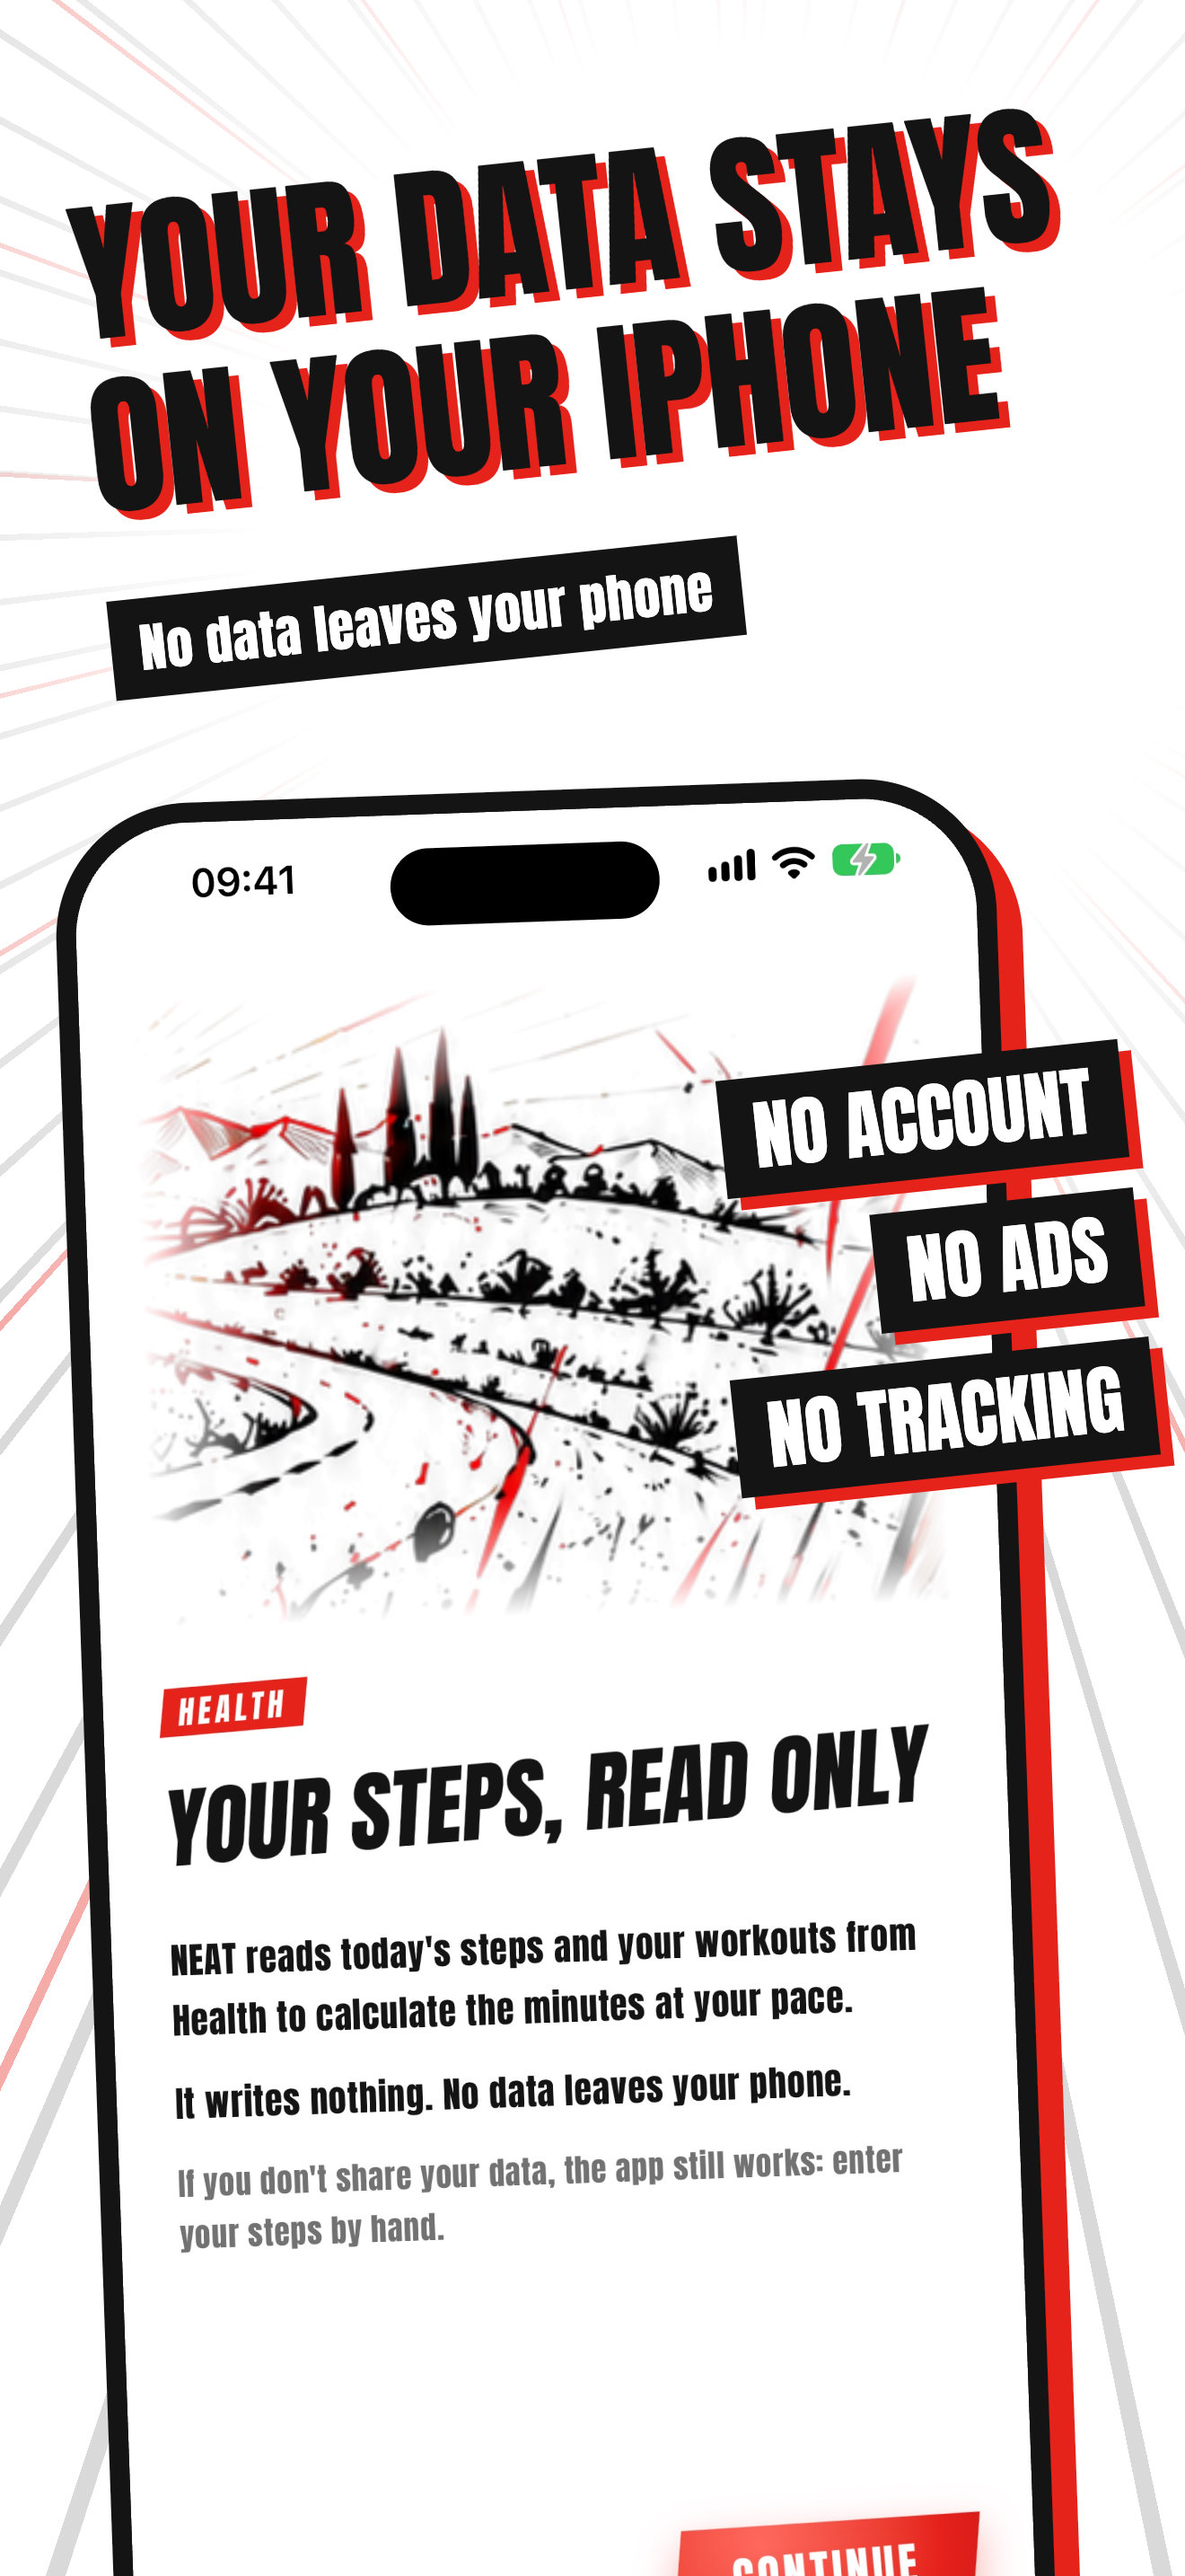
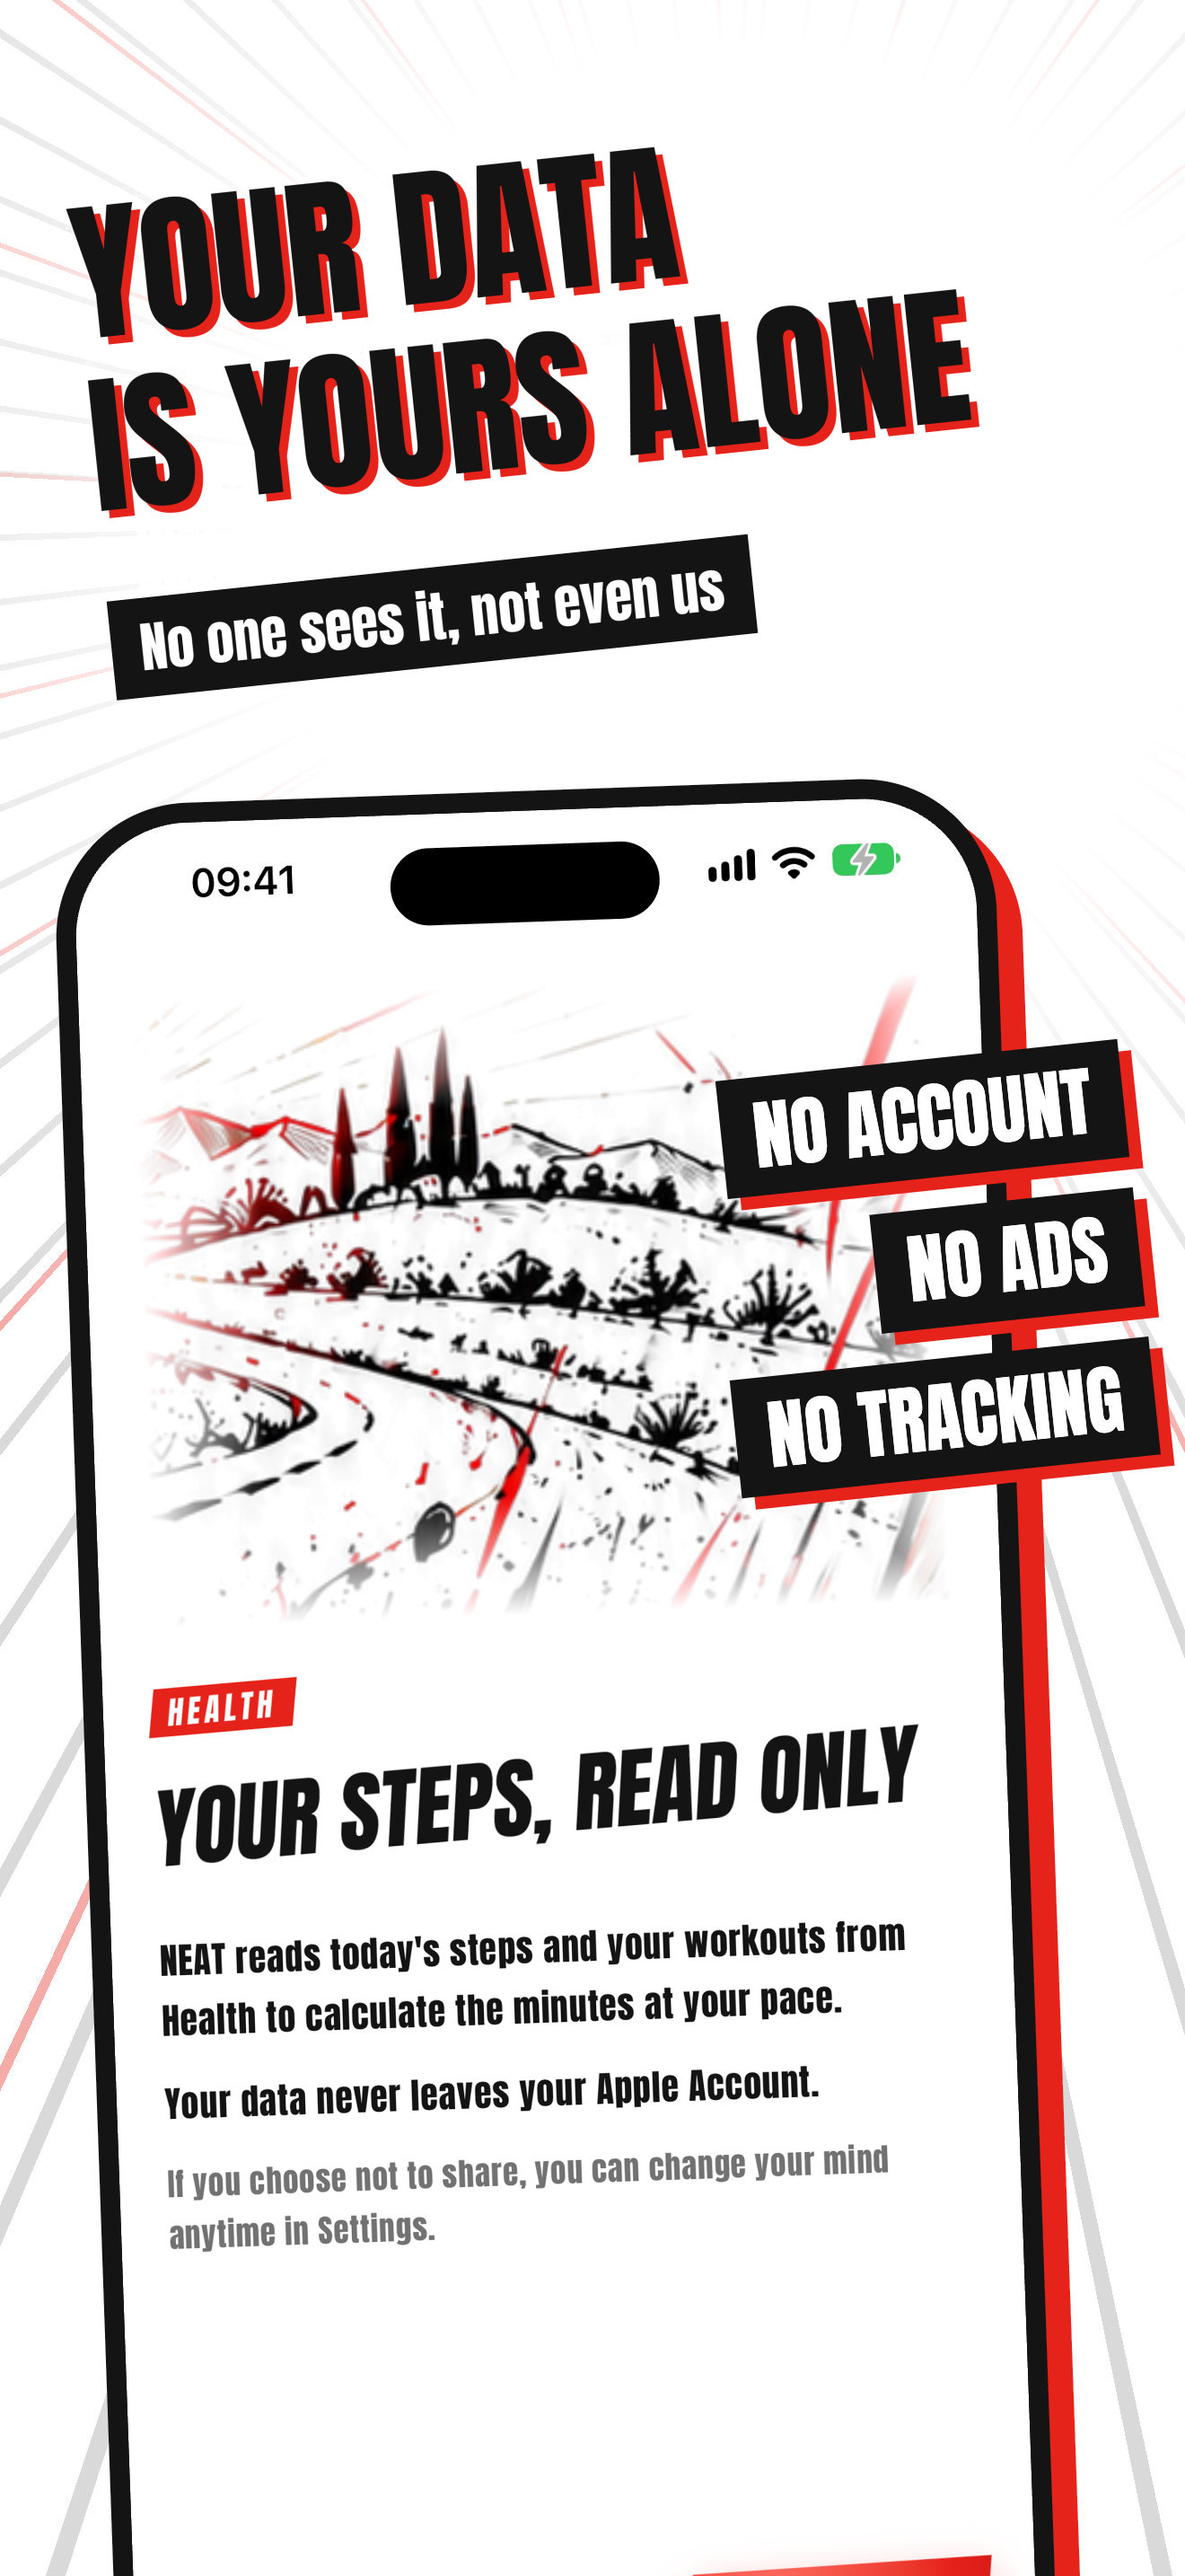
ios 1.1: screenshot 6 nuovo in 10 lingue («I tuoi dati sono solo tuoi»)
Immagini di Claude Design controllate e convertite in JPEG; solo le 06 cambiano.

Changed region(s): [[0.0932, 0.031, 0.9008, 0.2793], [0.1242, 0.6517, 0.7765, 0.8999], [0.5591, 0.962, 0.8386, 1.0]]

diff --git a/ios/STORE_CHECKLIST.md b/ios/STORE_CHECKLIST.md
@@ -225,5 +225,6 @@ Testi italiani in `ios/localizzazione/NEAT_store_da_tradurre.xlsx`, prompt in `P
       noi», stessa pagina Salute dell'introduzione con la frase nuova «I tuoi dati non lasciano mai il tuo account»
 - [x] Per la 1.1: schermate `intro-2-day` in 10 lingue dal simulatore e zip `NEAT_06_per_Claude_Design.zip`
       (con `PROMPT.md`, non versionato), 27 ottobre
-- [ ] Per la 1.1: Claude Design rifà le 10 immagini 06; poi `scripts/store_screenshots.py` (solo le 06)
+- [x] Per la 1.1: Claude Design ha rifatto le 10 immagini 06 (28 ottobre, PNG in `localizzazione/design/claude-design-1.1/`,
+      non versionati), controllate tutte; convertite in `store/screenshots/<lingua>/06.jpg` (le altre 5 invariate)
 - [ ] Per la 1.1: percorsi di iOS per spegnere e cancellare la copia in iCloud, da verificare sul telefono (privacy)
